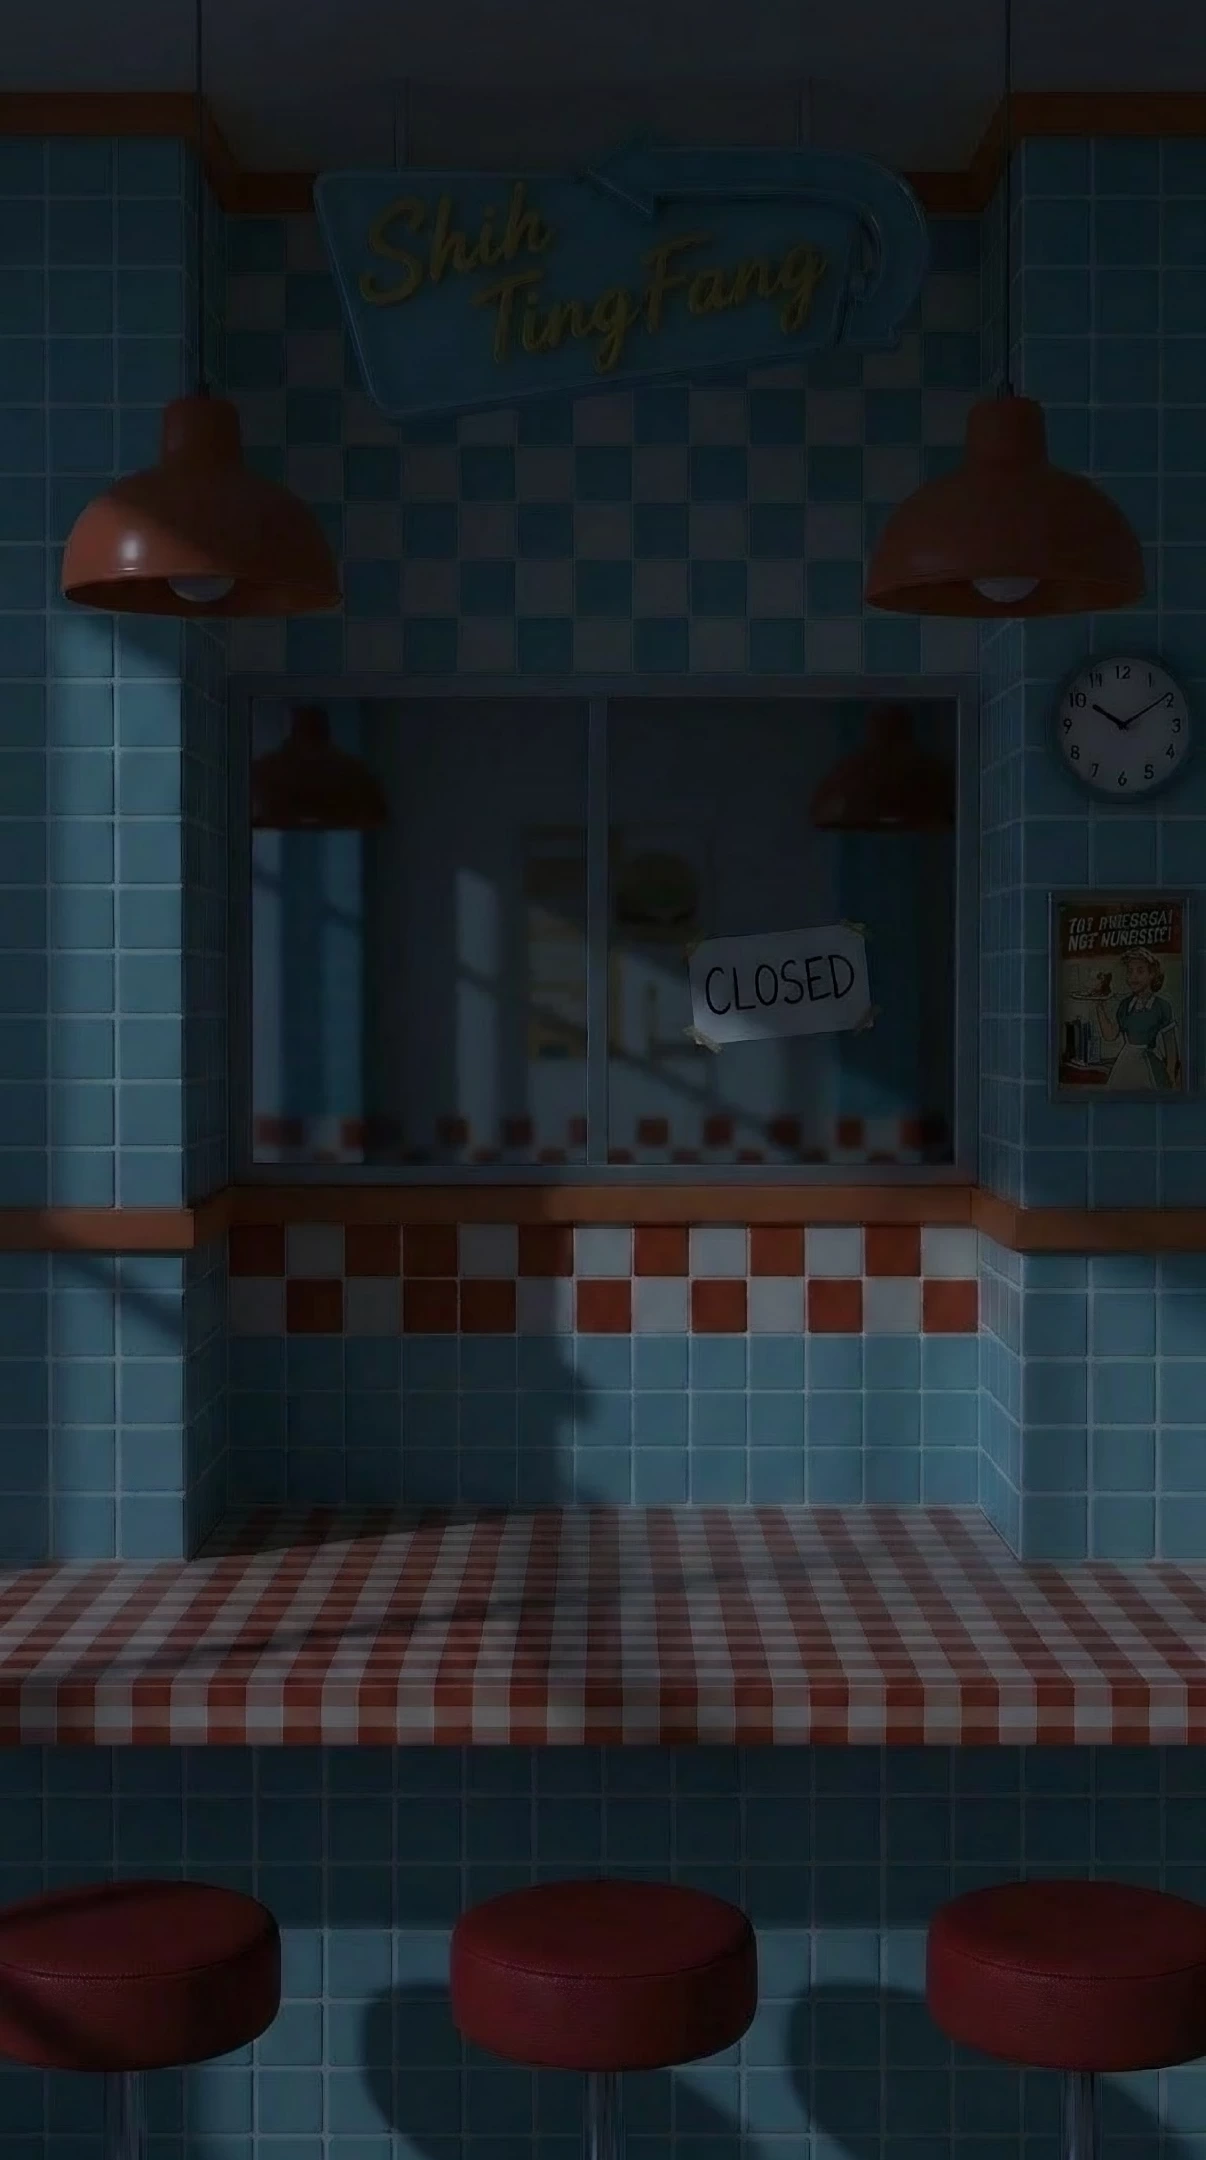
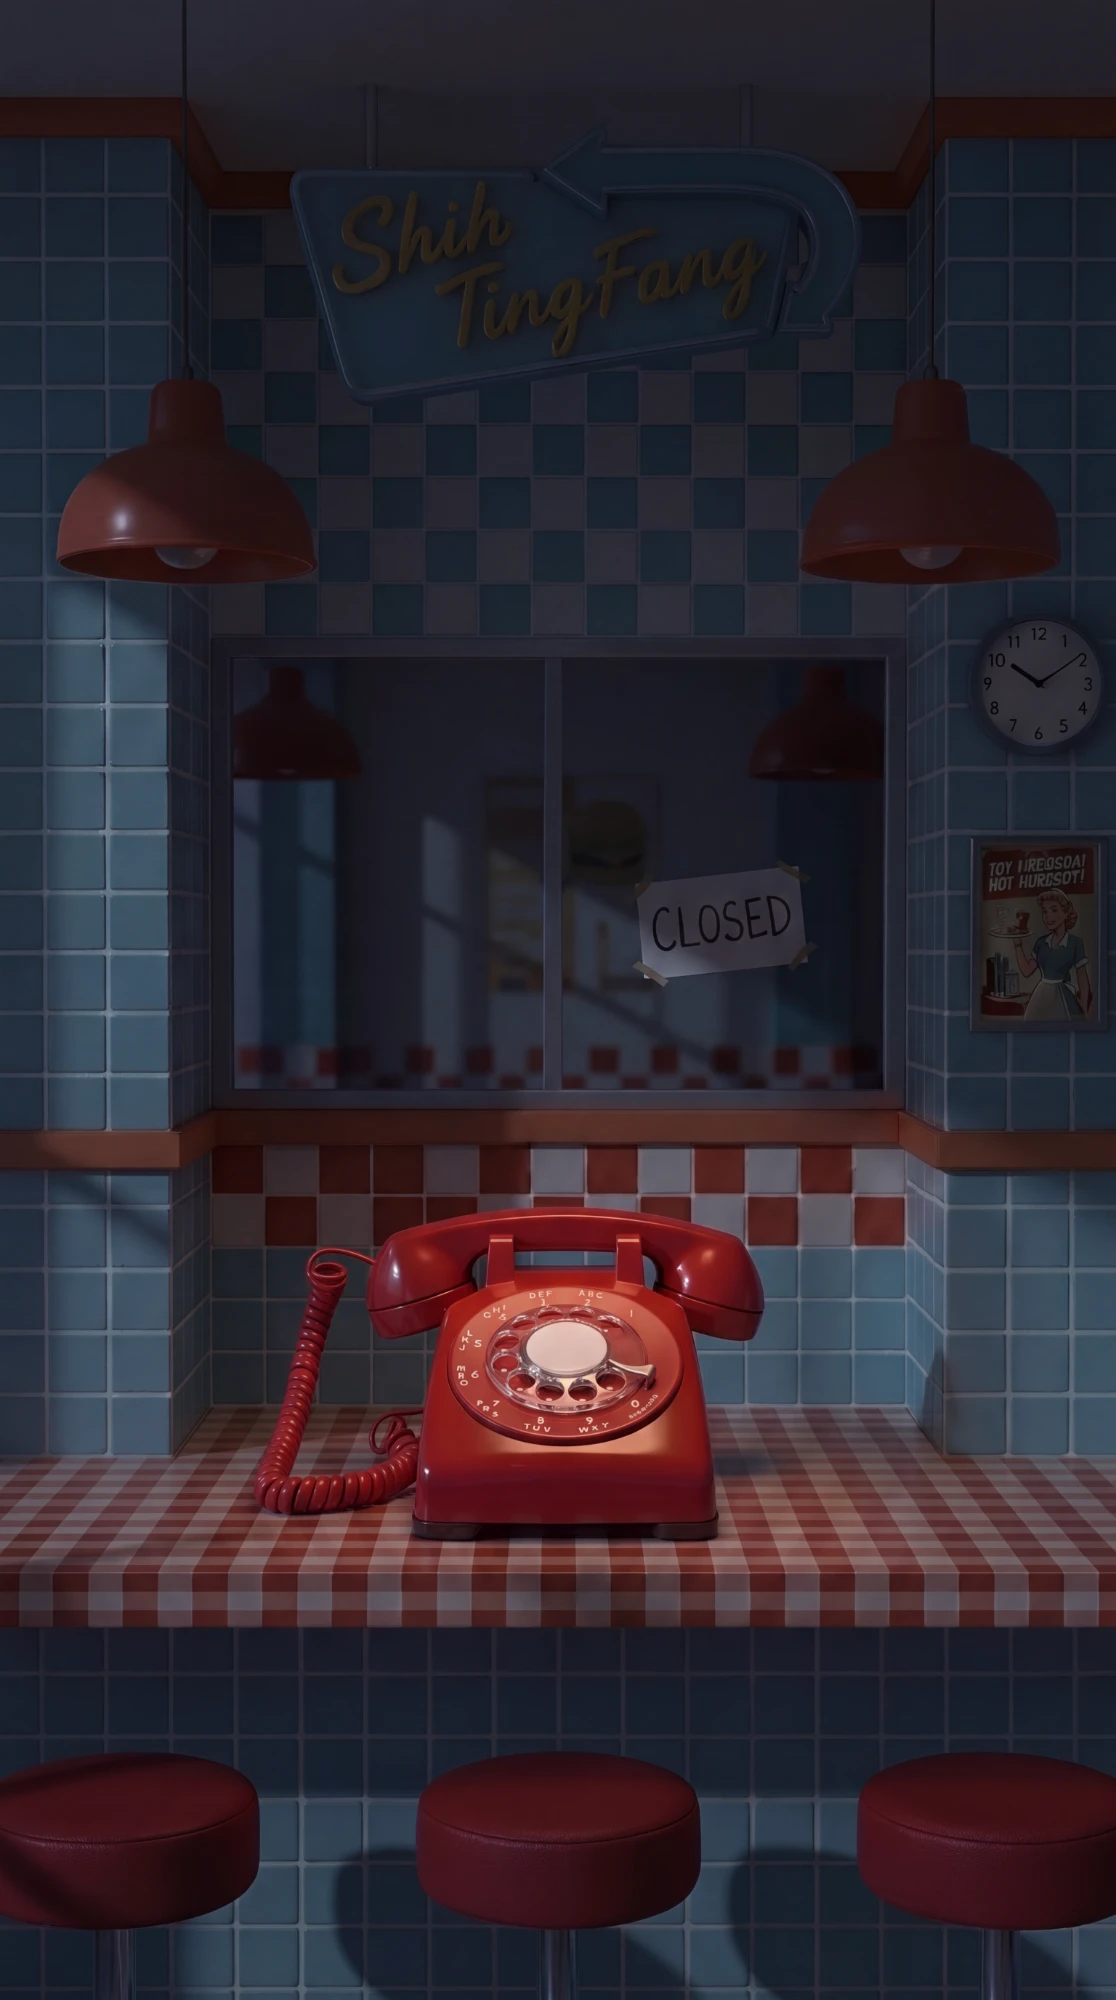
Works: replace the closed diner image with the red telephone scene

diff --git a/works.html b/works.html
@@ -86,7 +86,7 @@
 </svg>
 
 <div class="works-frame" id="worksFrame" role="link" tabindex="0" aria-label="トップへ戻る">
-  <img class="works-img" src="assets/img/works-closed.webp?v=3" alt="Shih TingFang Diner — Works (2022~) は準備中です">
+  <img class="works-img" src="assets/img/works-closed.webp?v=4" alt="Shih TingFang Diner — Works (2022~) は準備中です">
 </div>
 
 <!-- PC幅のみの装飾は pc-deco.js が注入する(index/about/works共通) -->
